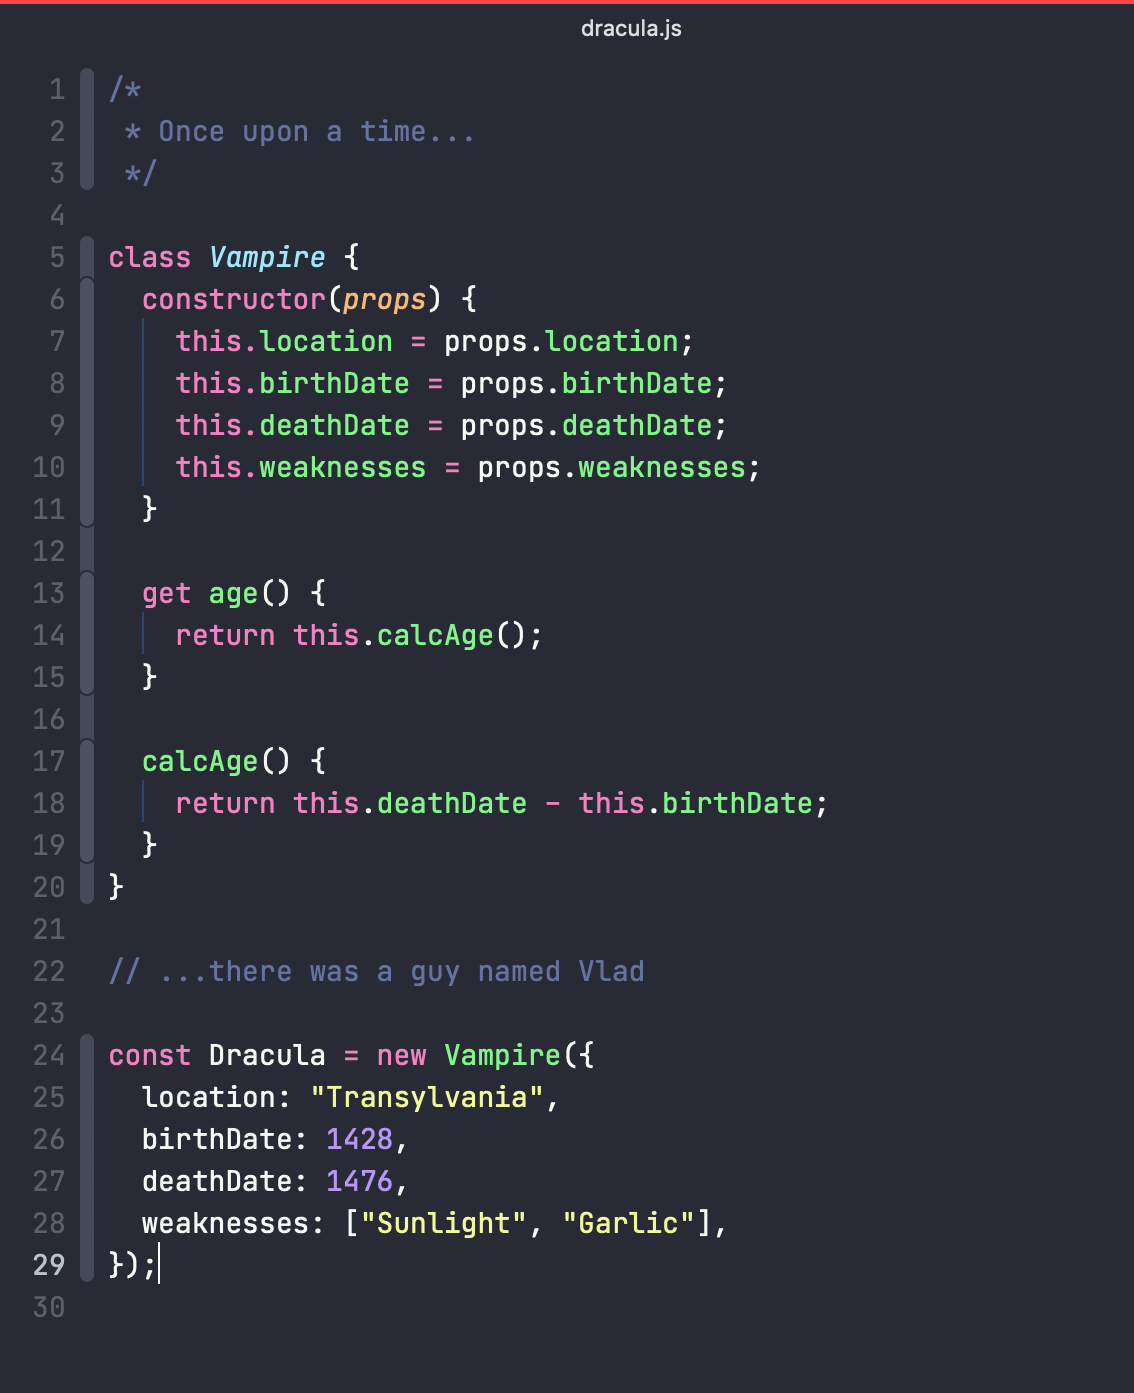
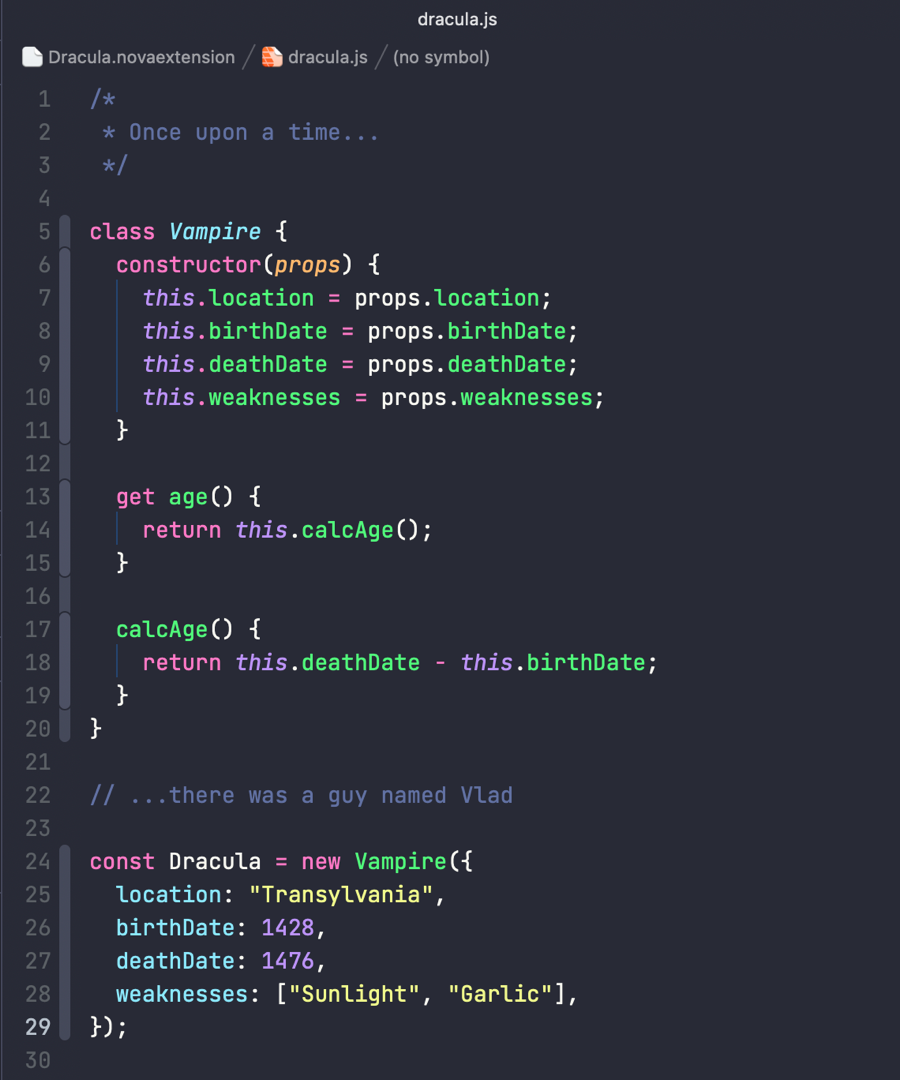
Various changes to bring highlighting more to spec

diff --git a/Dracula.novaextension/Themes/Dracula.css b/Dracula.novaextension/Themes/Dracula.css
@@ -136,9 +136,6 @@ meta.gutter.selected {
 /*
  * Syntax styles
  */
-keyword {
-  color: #ff79c6;
-}
 comment {
   color: #6272a4;
 }
@@ -155,11 +152,19 @@ operator {
   color: #ff79c6;
 }
 invalid {
-  background-color: #ff79c6;
-  color: #f8f8f2;
+  color: #ff5555;
 }
 link {
   color: #8be9fd;
+}
+
+/* Keywords */
+keyword {
+  color: #ff79c6;
+}
+keyword.self {
+  color: #bd93f9;
+  font-style: italic;
 }
 
 /* Values */
@@ -167,7 +172,7 @@ value.boolean {
   color: #bd93f9;
 }
 value.null {
-  color: #8be9fd;
+  color: #bd93f9;
 }
 value.number {
   color: #bd93f9;
@@ -203,7 +208,7 @@ identifier.method {
   color: #50fa7b;
 }
 identifier.property {
-  color: #50fa7b;
+  /* color: #50fa7b; */
 }
 identifier.key {
   color: #8be9fd;
@@ -377,9 +382,23 @@ ruby.identifier.variable.instance {
   font-style: italic;
 }
 
+/* PHP */
+php.type.identifier.name {
+  color: #ff79c6;
+}
+
 /* Javascript */
 javascript.single-quoted.escape,
 javascript.double-quoted.escape {
+  color: #ff79c6;
+}
+javascript.definition.constant {
+  color: #bd93f9;
+}
+javascript.identifier.key.name {
+  color: #f8f8f2;
+}
+javascript.colon {
   color: #ff79c6;
 }
 
@@ -390,6 +409,42 @@ tsx.tag.framework.open,
 tsx.tag.framework.close {
   color: #8be9fd;
   font-style: italic;
+}
+
+/* HTML */
+html.tag {
+  color: #f8f8f2;
+}
+html.tag.name {
+  color: #ff79c6;
+}
+html.tag.attribute.name {
+  color: #50fa7b;
+  font-style: italic;
+}
+html.tag.attribute.value {
+  color: #f1fa8c;
+}
+html.tag.attribute.operator {
+  color: #ff79c6;
+}
+
+/* XML */
+xml.tag {
+  color: #f8f8f2;
+}
+xml.tag.name {
+  color: #ff79c6;
+}
+xml.tag.attribute.name {
+  color: #50fa7b;
+  font-style: italic;
+}
+xml.tag.attribute.value {
+  color: #f1fa8c;
+}
+xml.tag.attribute.operator {
+  color: #ff79c6;
 }
 
 /* Terminal */
